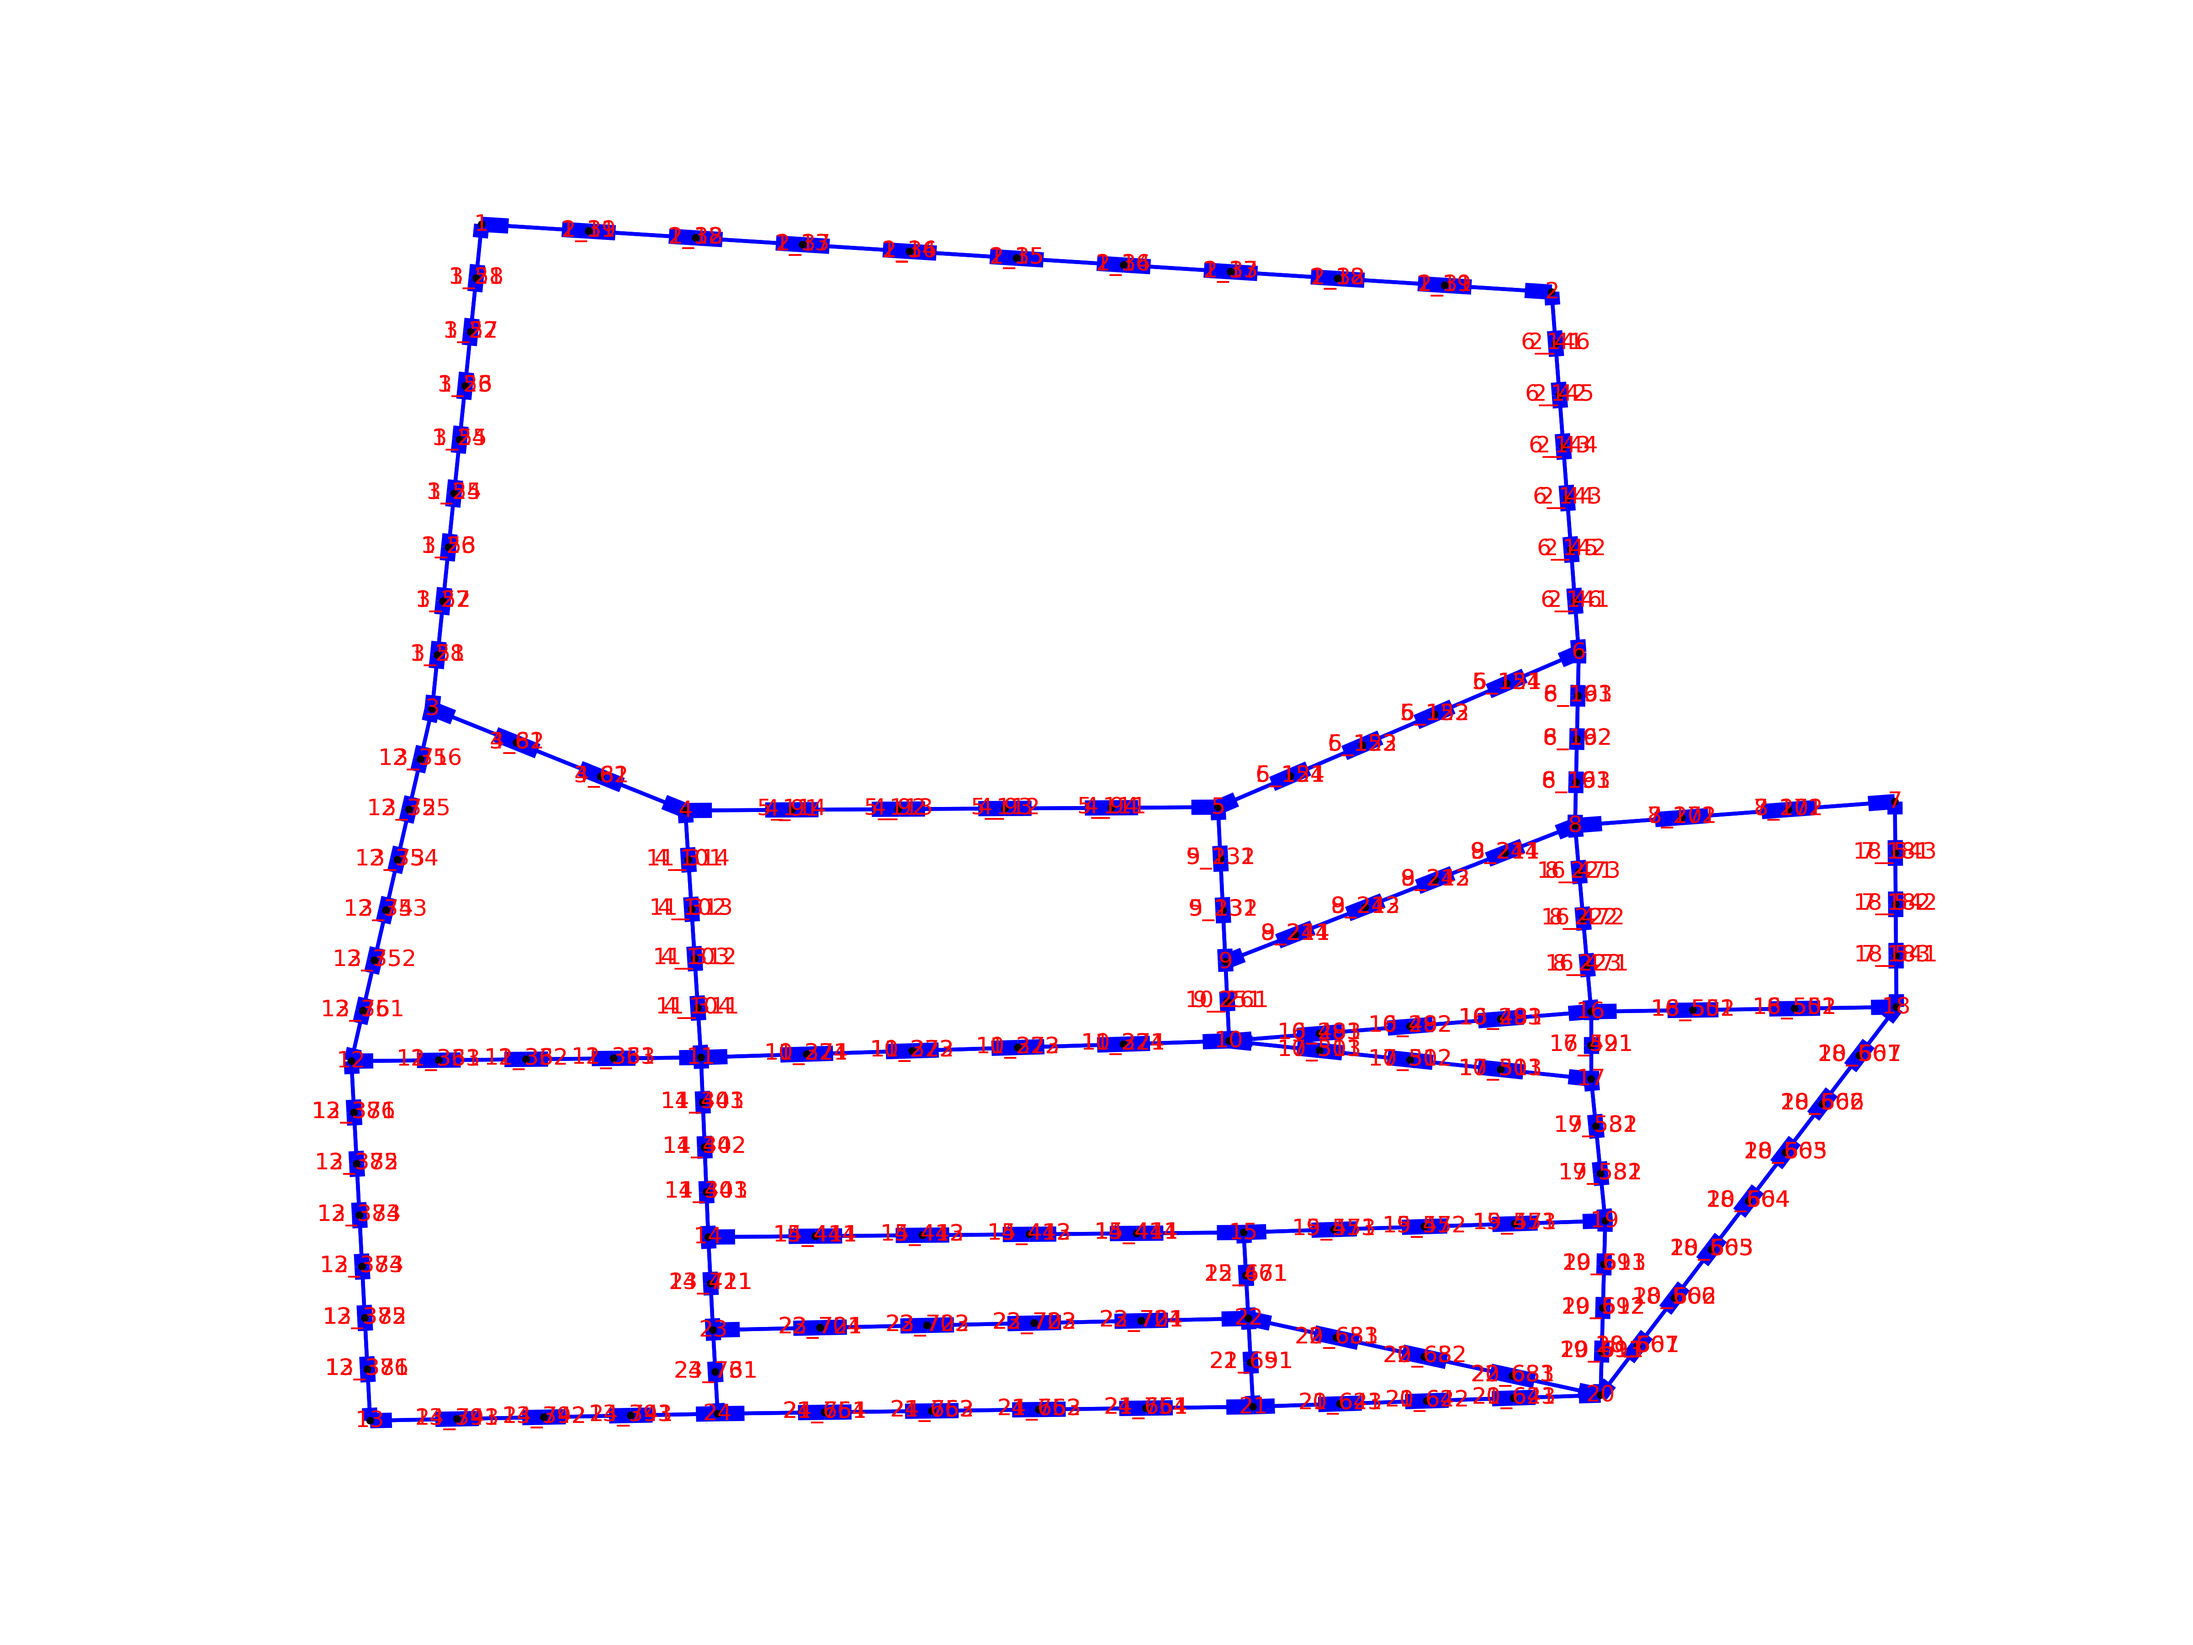
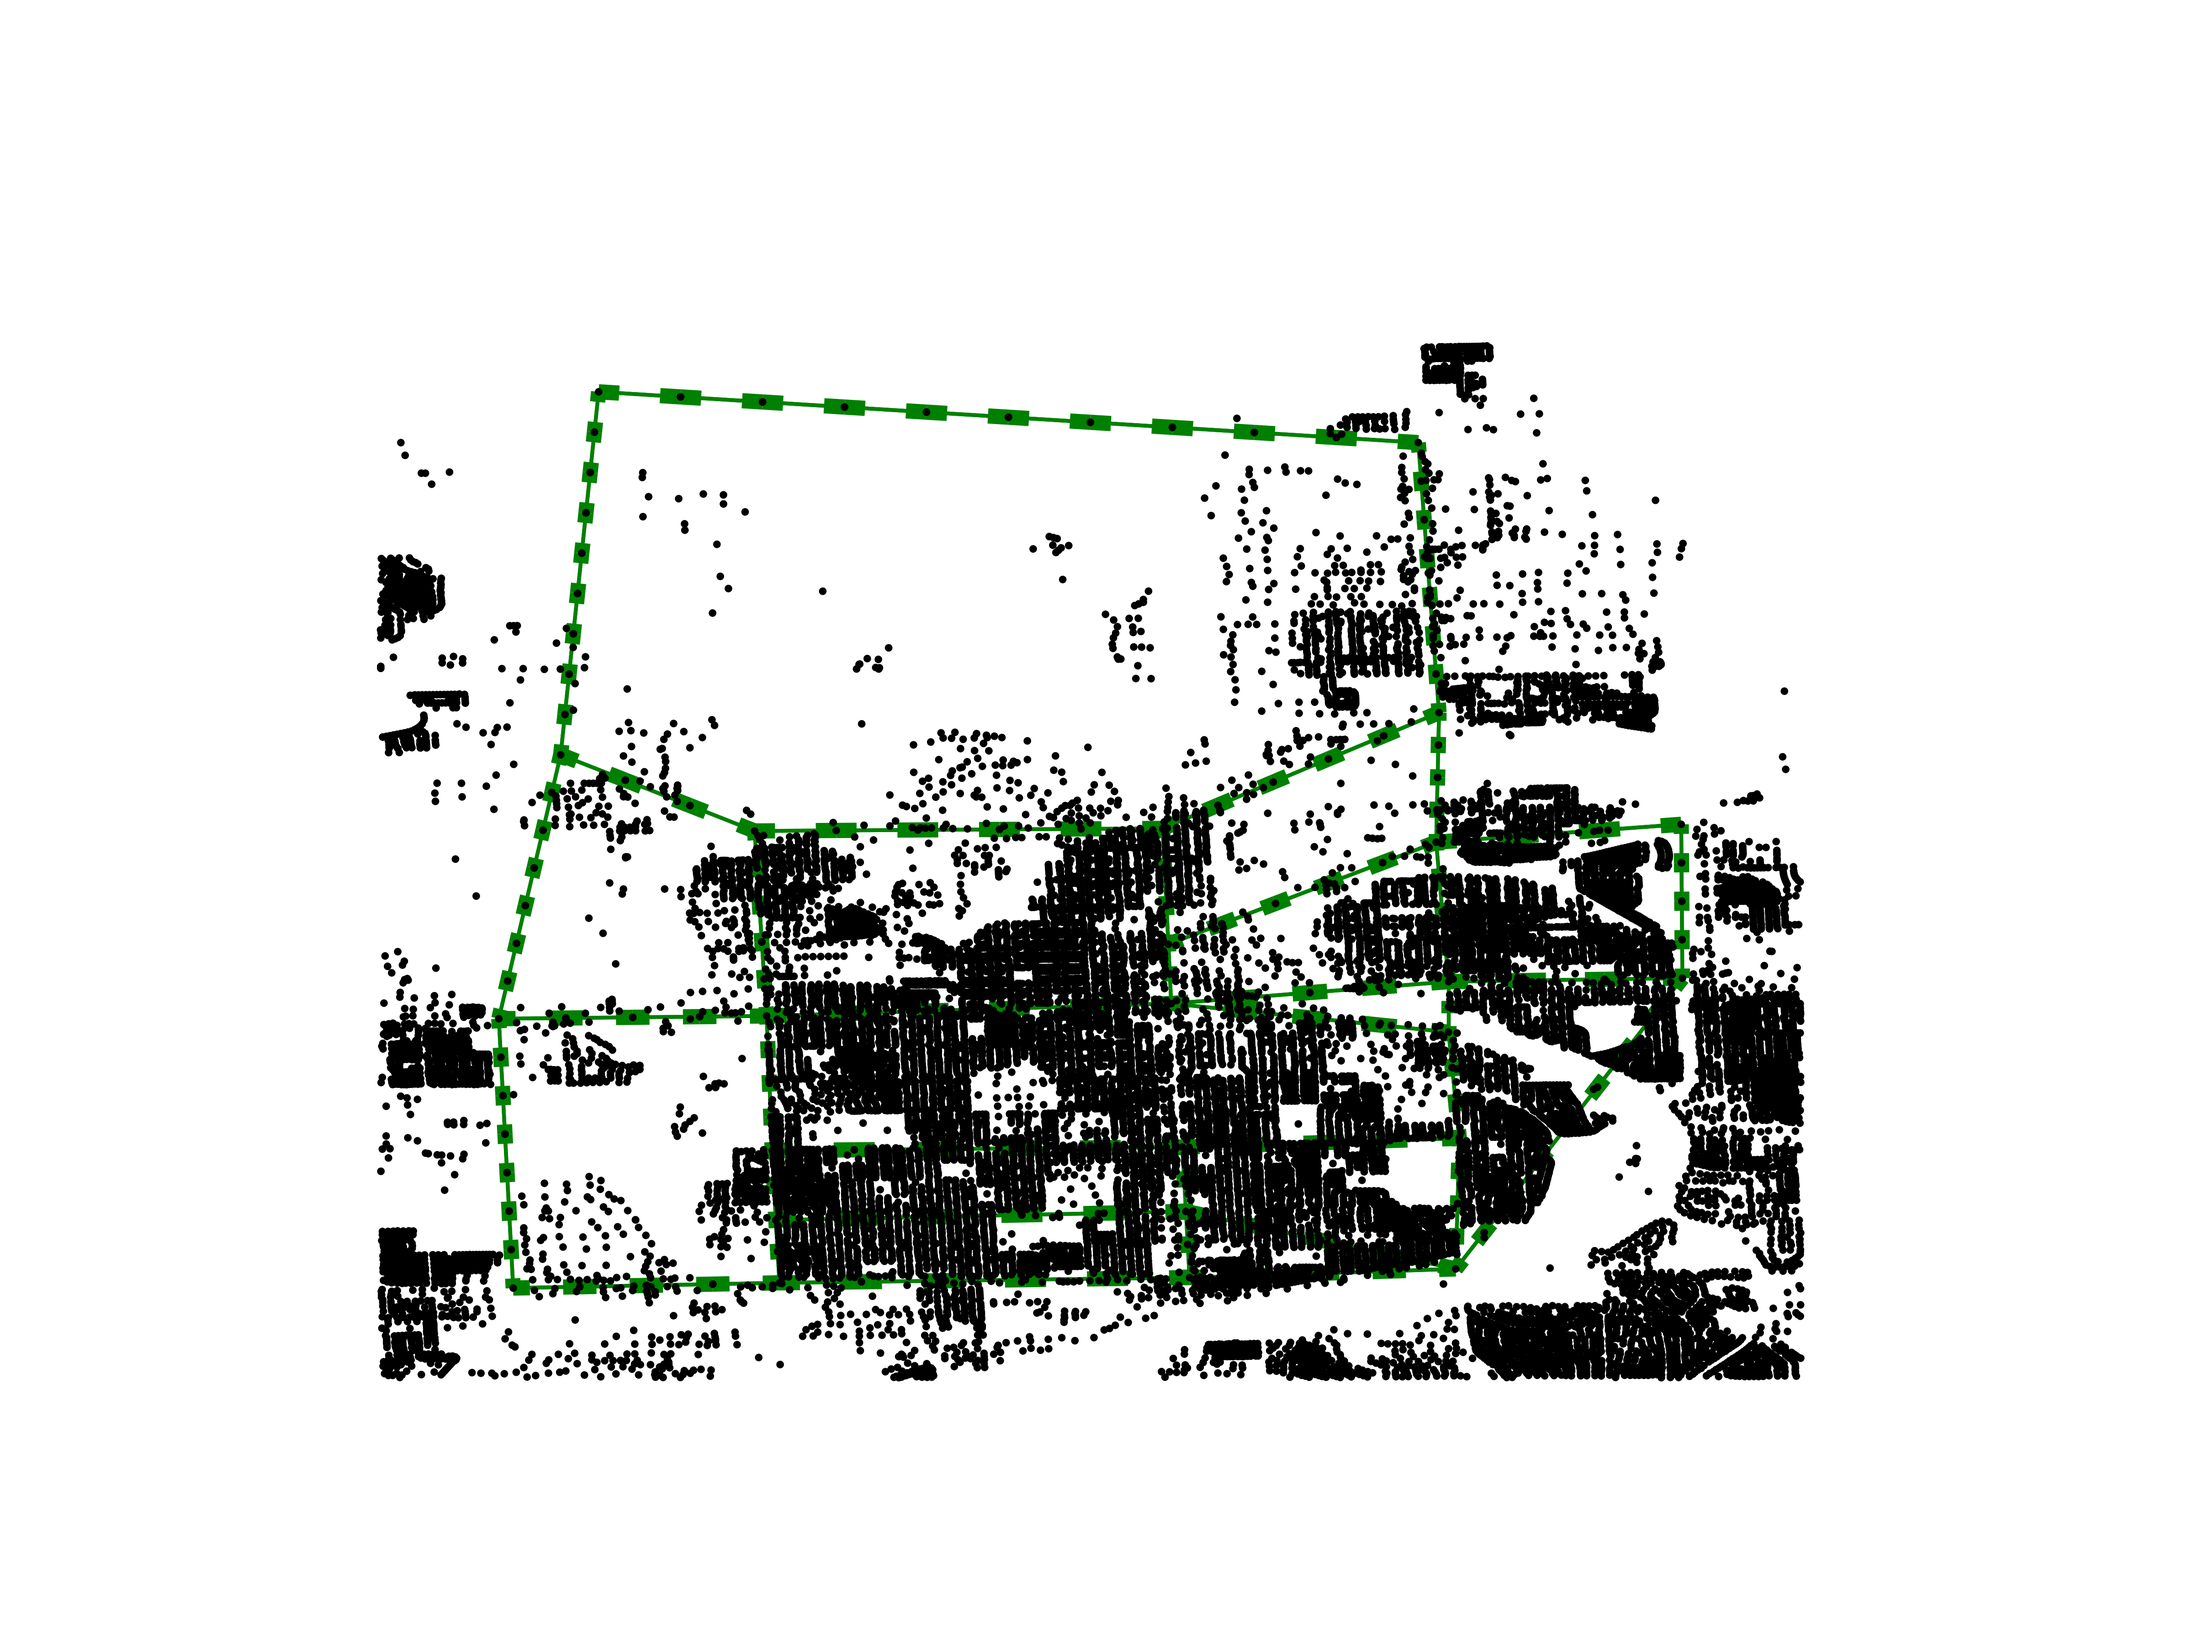
Methods for plotting MATSim stuff

Changed region(s): [[0.1562, 0.1244, 0.875, 0.8711], [0.5, 0.3733, 0.5312, 0.4044], [0.4688, 0.3111, 0.5, 0.3422]]

diff --git a/python/ms/Network.py b/python/ms/Network.py
@@ -3,40 +3,68 @@ Created on 7 sty 2015
 
 @author: michalsiatkowski
 '''
+
 from lxml import etree
 import networkx as nx
 import matplotlib.pyplot as plt
+import math as math
+import logging
+import colorsys
+import time
 
-def scale(value, top):
-    #H = 0-120
-    #S = 100
-    #V = 100
-    h = int((120)/(top)*(value))
+def timing(f):
+    def wrap(*args):
+        time1 = time.time()
+        ret = f(*args)
+        time2 = time.time()
+        logging.info('     %s function took %0.3f ms' % (f.__name__, (time2 - time1) * 1000.0))
+        return ret
+    return wrap
 
-def draw_graph(graph, labels=False):
+def scale(edge):
+    # python hsv has 0-1 range!
+    # H = 0-120
+    # h = 0-0.3
+    s = 1
+    v = 1
+    top = float(edge.get('capacity'))
+    value = float(edge.get('occupied'))
+    h = ((0.3) / (top) * (value))
+    # invert it
+    h = 0.3 - h;
+    if(h < 0):
+        h = 0
+    return colorsys.hsv_to_rgb(h, s, v)
+
+def draw_graph(graph, mark_edge_busy=False, labels=False):
     pos = nx.get_node_attributes(graph, 'pos')
     
-    node_size=list(x[0] for x in nx.get_node_attributes(graph, 'style').values())
-    node_color=list(x[1] for x in nx.get_node_attributes(graph, 'style').values())
-    node_alpha=list(x[2] for x in nx.get_node_attributes(graph, 'style').values())
+    node_size = list(nx.get_node_attributes(graph, 'size').values())
+    node_color = list(nx.get_node_attributes(graph, 'color').values())
+    node_alpha = list(nx.get_node_attributes(graph, 'alpha').values())
     
     edges = graph.edges()
-    edge_size = [graph[u][v]['style'][0] for u,v in edges]
-    edge_color = [graph[u][v]['style'][1] for u,v in edges]
+    if (mark_edge_busy):
+        for u, v in edges:
+            graph[u][v]['color'] = scale(graph[u][v])
+        
+    edge_size = [graph[u][v]['size'] for u, v in edges]
+    edge_color = [graph[u][v]['color'] for u, v in edges]
+        
     
-    nx.draw_networkx_nodes(graph,pos,
+    nx.draw_networkx_nodes(graph, pos,
                            node_size=node_size,
                            node_color=node_color,
                            node_alpha=node_alpha)
     
-    nx.draw_networkx_edges(graph,pos,
+    nx.draw_networkx_edges(graph, pos,
                            arrows=True,
                            width=edge_size,
                            edge_color=edge_color)
     
     if (labels):
-        labels=nx.get_node_attributes(graph,'id')
-        nx.draw_networkx_labels(graph,pos,
+        labels = nx.get_node_attributes(graph, 'id')
+        nx.draw_networkx_labels(graph, pos,
                             labels,
                             font_size=6,
                             font_color='red')
@@ -45,45 +73,130 @@ def draw_graph(graph, labels=False):
 
 def save_graph(filename):
     plt.axis('off')
-    plt.margins(0,0)
     plt.savefig(filename, dpi=600)
 
-def generate_network_graph(f, node_style=(1,'black',1), edge_style=(1,'blue')):
+def generate_network_graph(graph, xml, node_style=(0, 'white', 0), edge_style=(1, 'orange')):
     """
-        Generates a graph from file (f)
-            Optional node_style argument, used as 'style' attribute in nodes
-                    (size, color, alpha)
-            Optional edge_style argument, used as 'style' attribute in edges
-                    (width, color)
-        
+        Generates a graph from network xml file
+            Optional node_style argument (size, color, alpha)
+            Optional edge_style argument (width, color)
+            
         Returns a networkx graph
     """
-    network = etree.parse(f)
-    
+    network = etree.parse(xml)
     nodes = network.findall(".//node")
     links = network.findall('.//link')
     
-    graph = nx.DiGraph()
     for node in nodes:
         attributes = dict(node.items())
-        attributes['style'] = node_style
-        attributes['pos'] = [float(attributes.get('x')),float(attributes.get('y'))]
+        attributes['size'] = node_style[0]
+        attributes['color'] = node_style[1]
+        attributes['alpha'] = node_style[2]
+        attributes['pos'] = [float(attributes.get('x')), float(attributes.get('y'))]
         graph.add_node(attributes.get('id'), attributes)
         
     for link in links:
         attributes = dict(link.items())
-        attributes['style'] = edge_style
+        attributes['occupied'] = 0
+        attributes['size'] = edge_style[0]
+        attributes['color'] = edge_style[1]
         graph.add_edge(attributes.get('from'), attributes.get('to'), attributes)
     
     return graph
 
+
+def generate_facilities_graph(graph, xml, style=(1, 'blue', 0.1)):
+    """
+        Generates a graph of facilities from xml file
+            Optional style argument (size, color, alpha)
+        
+        Returns a networkx graph
+    """
+    
+    network = etree.parse(xml)
+    facilities = network.findall(".//facility")
+
+    for facility in facilities:
+        attributes = dict(facility.items())
+        attributes['size'] = style[0]
+        attributes['color'] = style[1]
+        attributes['alpha'] = style[2]
+        attributes['pos'] = [float(attributes.get('x')), float(attributes.get('y'))]
+        graph.add_node('fac' + attributes.get('id'), attributes)
+    
+    return graph
+
+
+# @timing
+def count_events(events, i, pointer):
+    links = {}
+    while (i < len(events)) and ((math.floor(float(events[i].get('time')) / 3600) <= pointer) or (pointer == 23)):
+        event = events[i]
+        i += 1
+        if event.get('link') in links:
+            links[event.get('link')] += 1
+        else:
+            links[event.get('link')] = 0
+    return links, i
+
+# @timing
+def fill_graph(network, graph, links):
+    for k, v in links.items():
+        link = network.xpath("//link[@id='" + k + "']")[0]
+        graph[link.get('from')][link.get('to')]['occupied'] = v
+
+def generate_events_graph(network_file, events_file, interval=1):
+    """
+        Generates a graph of events from network and event xml files
+        Optional interval argument [hours], default is 1
+    """
+    logging.info("Starting to generate events graphs...")
+    
+    logging.info("Loading events... might take some time")
+    events_tree = etree.parse(events_file)
+    events = (events_tree.xpath("//event[@type='entered link']"))
+    
+    logging.info("Loading network...")
+    network = etree.parse(network_file)
+    
+    # setting up starting time
+    # full hour of the 1st event
+    i = 0
+    pointer = math.floor(float(events[i].get('time')) / 3600)
+    
+    while(pointer < 24):
+        logging.info("Loading events starting from: " + str(pointer) + " h.")
+        graph = nx.DiGraph()
+        graph = generate_network_graph(graph, network_file)
+        
+        links, i = count_events(events, i, pointer + interval)
+        fill_graph(network, graph, links)
+        
+        draw_graph(graph, True)
+        save_graph('graph' + str(pointer) + '-' + str(pointer + interval) + '.png')
+        pointer += interval
+    
+    logging.info("Finished drawing events graphs...")
+    pass
+
+
+
+
 if __name__ == '__main__':
+    logging.basicConfig(level=logging.INFO, format='%(asctime)s %(message)s')
+    graph = nx.DiGraph()
 #     graph = generate_network_graph('../../scenarios/siouxfalls/network.xml')
-    graph = generate_network_graph('../../scenarios/siouxfalls-cut/network.xml')
+#     graph = generate_network_graph(graph, '../../scenarios/siouxfalls-cut/network.xml')
 #     graph = generate_network_graph('../../scenarios/nmbm/network.xml')
 #     graph = generate_network_graph('../../scenarios/berlin/network.xml')
 
-    draw_graph(graph, True)
-    save_graph('graph.png')
+#     graph = generate_facilities_graph(graph, '../../scenarios/siouxfalls-cut/facilities.xml')
+    
+#     graph = generate_events_graph(graph, '../../scenarios/siouxfalls-cut/cut.events.xml')
+    
+    generate_events_graph('../../scenarios/siouxfalls-cut/network.xml', '../../output/siouxfalls-cut/cut.events.xml')
+    
+#     draw_graph(graph)
+#     save_graph('graph.png')
     pass
 
